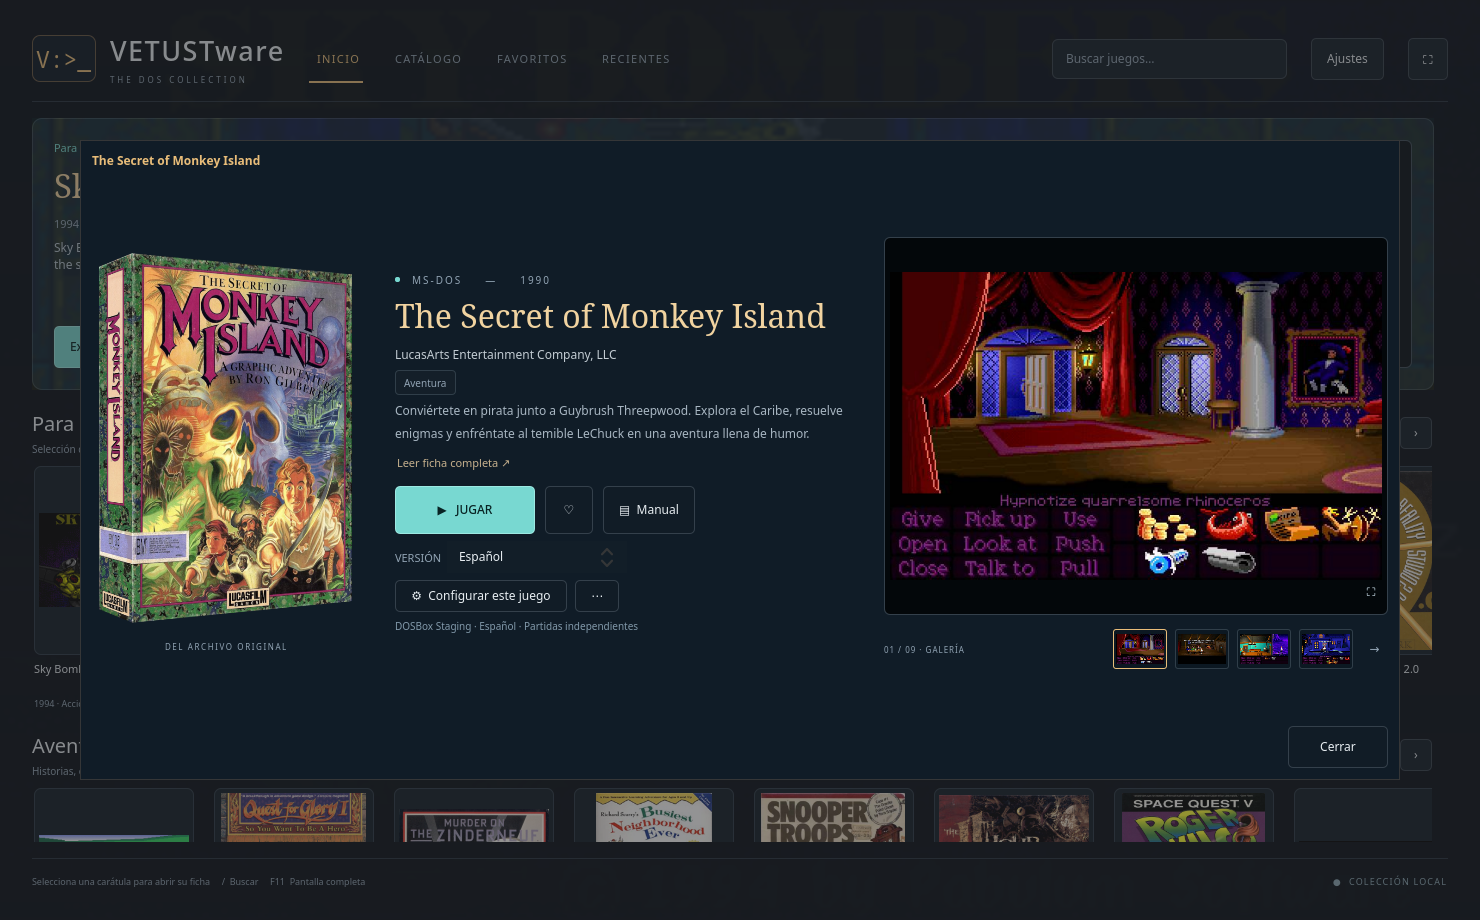
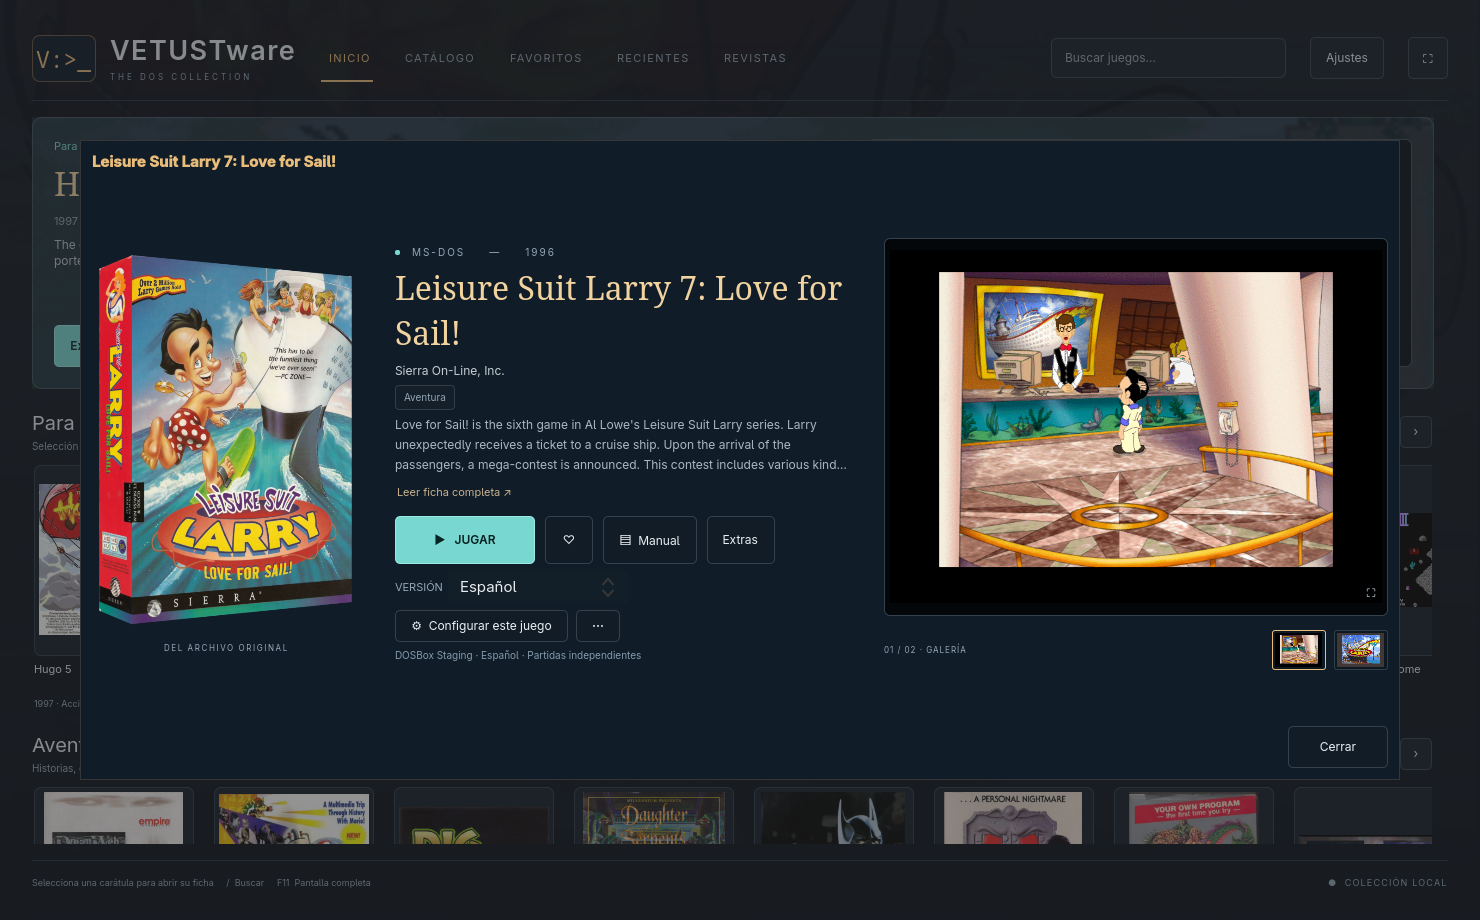
docs: renovar capturas del README para VETUSTware 0.3.2

diff --git a/README.md b/README.md
@@ -10,7 +10,7 @@ pensada para disfrutar de la colección. No necesita un navegador ni una cuenta.
 *Native Linux frontend for local DOS game collections, with DOSBox profiles,
 artwork, manuals and portable libraries. The current interface is in Spanish.*
 
-![Inicio de VETUSTware](docs/images/inicio.png)
+![Inicio de VETUSTware 0.3.2 con selecciones y categorías](docs/images/inicio.png)
 
 [Descargar 0.3.2](https://github.com/dejotaerre/vetustware/releases/tag/v0.3.2)
 · [Instalación](INSTALACION.md)
@@ -39,10 +39,33 @@ Desde 0.3.2, **Revistas** permite explorar colecciones con portadas, lectura
 PDF integrada y revistas electrónicas mediante DOSBox. El material se aporta
 en `Revistas/` dentro de la biblioteca; no se incluye en el motor. Consulta [su formato](docs/BIBLIOTECAS.md#revistas-opcionales).
 
-![Ficha de un juego](docs/images/ficha.png)
+Capturas de la interfaz de **VETUSTware 0.3.2**.
 
-Las capturas ilustran una biblioteca aportada localmente. Los juegos, imágenes
-y manuales que aparecen no se incluyen en el programa ni en sus descargas.
+**Ficha del juego:** selección de edición, manual, extras y configuración individual.
+
+![Ficha de Larry 7 con la edición en español seleccionada](docs/images/ficha.png)
+
+**Revistas:** colecciones de publicaciones en PDF y revistas electrónicas para DOS.
+
+![Colecciones de la sección Revistas](docs/images/revistas.png)
+
+<details>
+<summary>Ver los ajustes y el visor PDF</summary>
+
+**Ajustes:** pantalla completa con un interruptor, imagen Nítida por defecto y
+opciones avanzadas plegadas. El selector de monitor aparece cuando se detecta
+más de uno; esta captura corresponde a una sola pantalla.
+
+![Ajustes globales de emulación](docs/images/ajustes.png)
+
+**Lectura integrada:** navegación por páginas, ajuste al ancho y cierre con la X.
+
+![Manual en español de Larry 7 en el visor PDF](docs/images/visor-pdf.png)
+
+</details>
+
+Las capturas ilustran una biblioteca aportada localmente. Los juegos, imágenes,
+manuales y revistas que aparecen no se incluyen en el programa ni en sus descargas.
 
 ## Empezar
 
